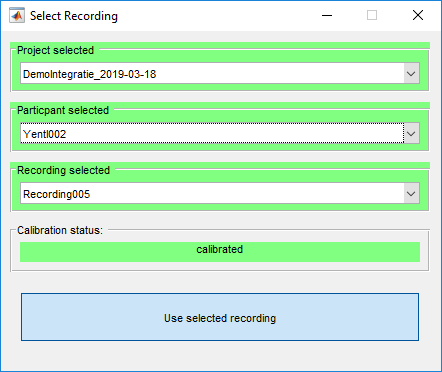
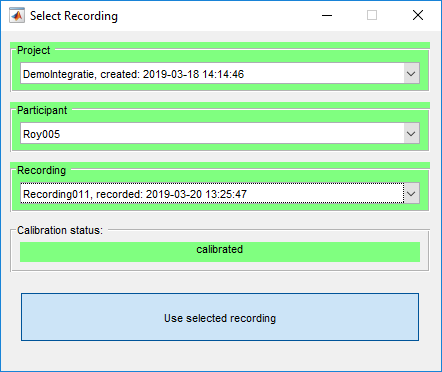
Updated screenshots and manual

diff --git a/glassesViewer.m b/glassesViewer.m
@@ -22,7 +22,7 @@ addpath(genpath('function_library'),genpath('user_functions'),genpath('SDparser'
 %    is: projects\rkamrkb\recordings\zi4xmt2. Not the the higher level
 %    folders are not needed when opening a recording, so you can just copy
 %    the "zi4xmt2" of this example somewhere and open it in isolation.
-if 0
+if 1
     selectedDir = uigetdir('','Select projects or recording folder');
 else
     % for easy use, hardcode a folder. 

diff --git a/manual.md b/manual.md
@@ -36,50 +36,69 @@ Changing the amount of data visible
 
 ![](screenshots/008.png)
 
-Browsing through the data
+Settings:
 
 ![](screenshots/009.png)
 
-Settings window:
-
-![](screenshots/019.png)
-
-## 3 - fixation classification
-
-Click on fixation classification results.
+Modify what signals are visible:
 
 ![](screenshots/010.png)
 
-Adjust settings.
+Browse through the data:
 
 ![](screenshots/011.png)
 
-Recalculate.
+## 3 - fixation classification
+
+
+Click on fixation classification results.
 
 ![](screenshots/012.png)
 
-Result.
+Go to classifier settings:
 
 ![](screenshots/013.png)
 
-Save coding.
+Classifier settings dialog:
 
 ![](screenshots/014.png)
 
-## 4 - manual annotation of eye-tracking data
-
-General explanation with example.
+Modify settings and recalculate:.
 
 ![](screenshots/015.png)
 
-Colours become visible in interface.
+Result of adjusted classifier settings, and save coding:
 
 ![](screenshots/016.png)
 
-Adjust trim of a label.
+Coding saved:
 
 ![](screenshots/017.png)
 
-Add labels to different streams.
+## 4 - manual annotation of eye-tracking data
+
+Click on empty coding stream. Then click somewhere in a signal to make the first annotation:
 
 ![](screenshots/018.png)
+
+First annotation:
+
+![](screenshots/019.png)
+
+Add a second annotation of a different kind:
+
+![](screenshots/020.png)
+
+Adjust trim of an annotation:
+
+![](screenshots/021.png)
+
+Multiple labels:
+
+![](screenshots/022.png)
+
+## 5 - exiting GlassesViewer
+
+Dialog asking whether to save adjusted coding or not:
+
+![](screenshots/023.png)
